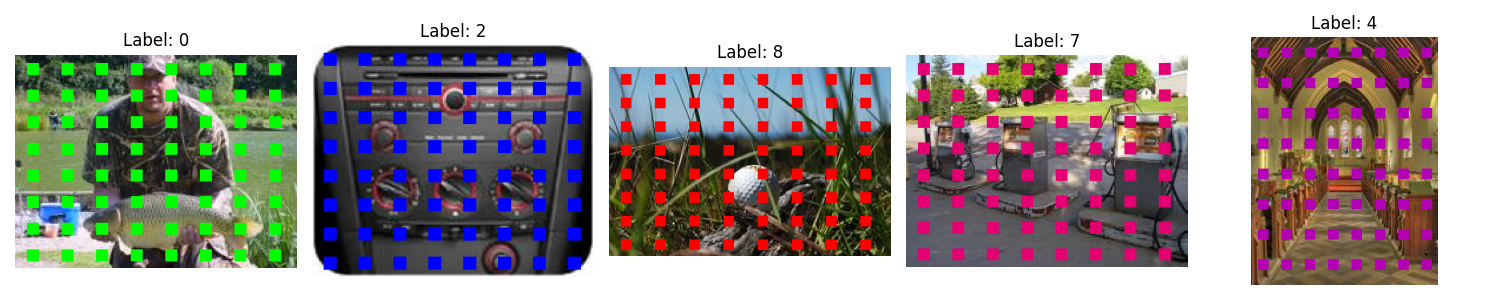
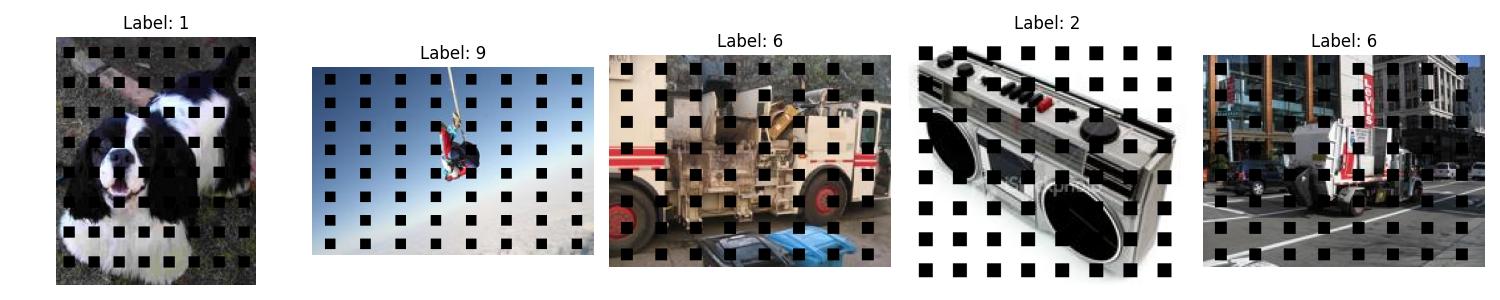
black patches

diff --git a/LeJEPA_Shortcut/lejepa-short/generate-dataset.py b/LeJEPA_Shortcut/lejepa-short/generate-dataset.py
@@ -20,16 +20,16 @@ box_size = 8
 # image_size = 128  <-- 제거: 이미지 크기는 실제 이미지에서 가져오는 게 안전합니다.
 
 colors = torch.tensor([
-    [255, 0, 0],       # 0
-    [0, 255, 0],       # 1
-    [0, 0, 255],       # 2
-    [180, 180, 0],     # 3
-    [180, 0, 180],     # 4
-    [0, 180, 180],     # 5
-    [228, 114, 0],     # 6
-    [228, 0, 114],     # 7
-    [114, 228, 0],     # 8
-    [0, 114, 228]      # 9
+    [0, 0, 0],         # 0
+    [0, 0, 0],         # 1
+    [0, 0, 0],         # 2
+    [0, 0, 0],         # 3
+    [0, 0, 0],         # 4
+    [0, 0, 0],         # 5
+    [0, 0, 0],         # 6
+    [0, 0, 0],         # 7
+    [0, 0, 0],         # 8
+    [0, 0, 0]          # 9
 ], dtype=torch.float32) # / 255.0 부분은 아래에서 처리하거나 여기서 하고 아래에서 빼거나 통일 필요
 # 여기서는 0~255 int값으로 바로 쓰는게 PIL에 그리기 편하므로 정규화 제거하고 아래 로직 수정함
 

diff --git a/LeJEPA_Shortcut/lejepa-short/src/model_data.py b/LeJEPA_Shortcut/lejepa-short/src/model_data.py
@@ -47,10 +47,10 @@ class HFDataset(torch.utils.data.Dataset):
         self.aug = v2.Compose(
             [
                 v2.RandomResizedCrop(128, scale=(0.08, 1.0)),
-                # v2.RandomApply([v2.ColorJitter(0.8, 0.8, 0.8, 0.2)], p=0.8),
-                # v2.RandomGrayscale(p=0.2),
+                v2.RandomApply([v2.ColorJitter(0.8, 0.8, 0.8, 0.2)], p=0.8),
+                v2.RandomGrayscale(p=0.2),
                 v2.RandomApply([v2.GaussianBlur(kernel_size=7, sigma=(0.1, 2.0))]),
-                # v2.RandomApply([v2.RandomSolarize(threshold=128)], p=0.2),
+                v2.RandomApply([v2.RandomSolarize(threshold=128)], p=0.2),
                 v2.RandomHorizontalFlip(),
                 v2.ToImage(),
                 v2.ToDtype(torch.float32, scale=True),
